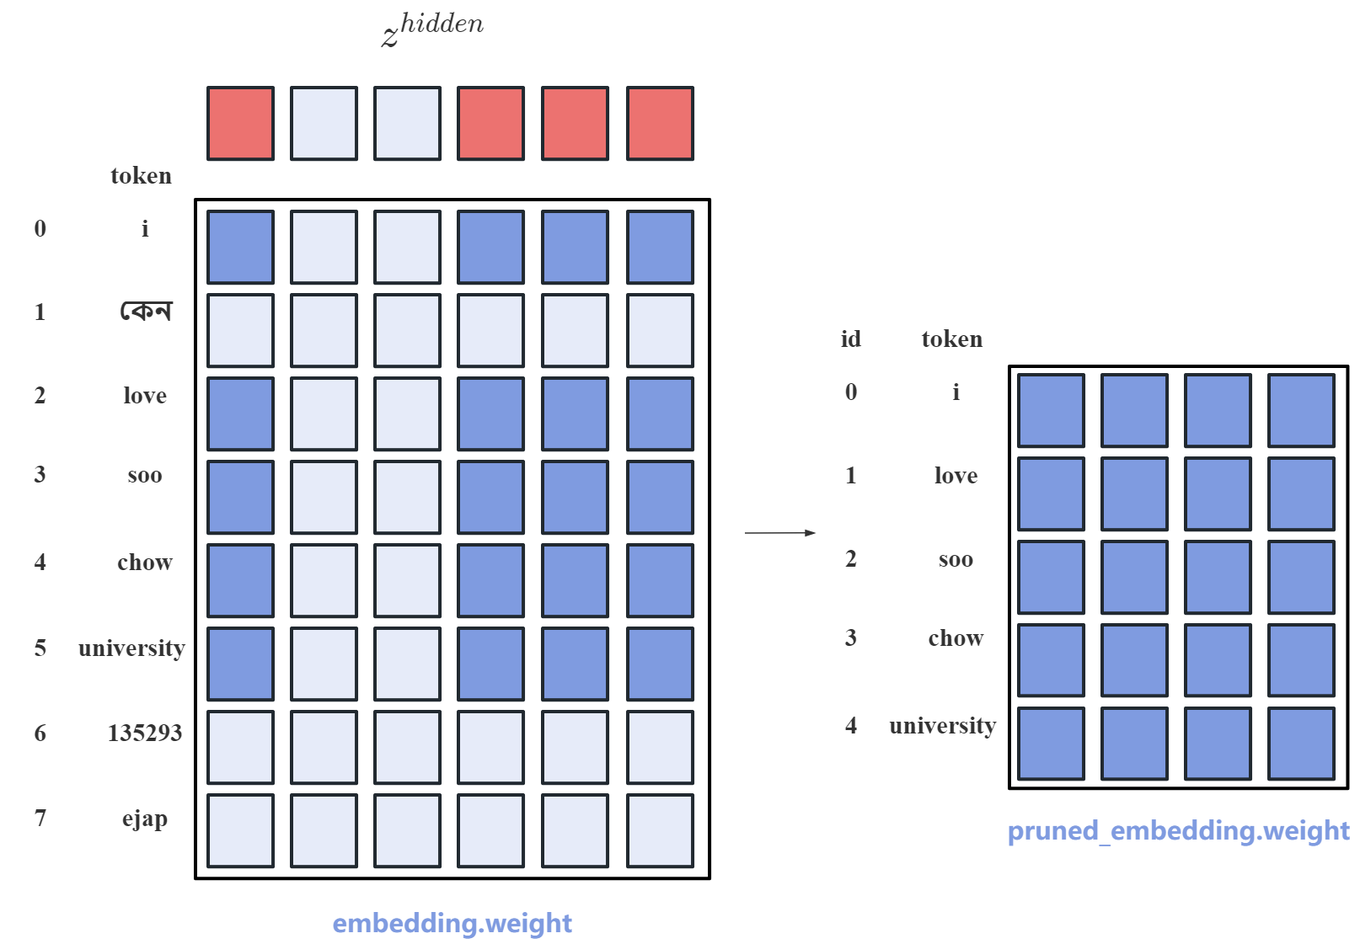
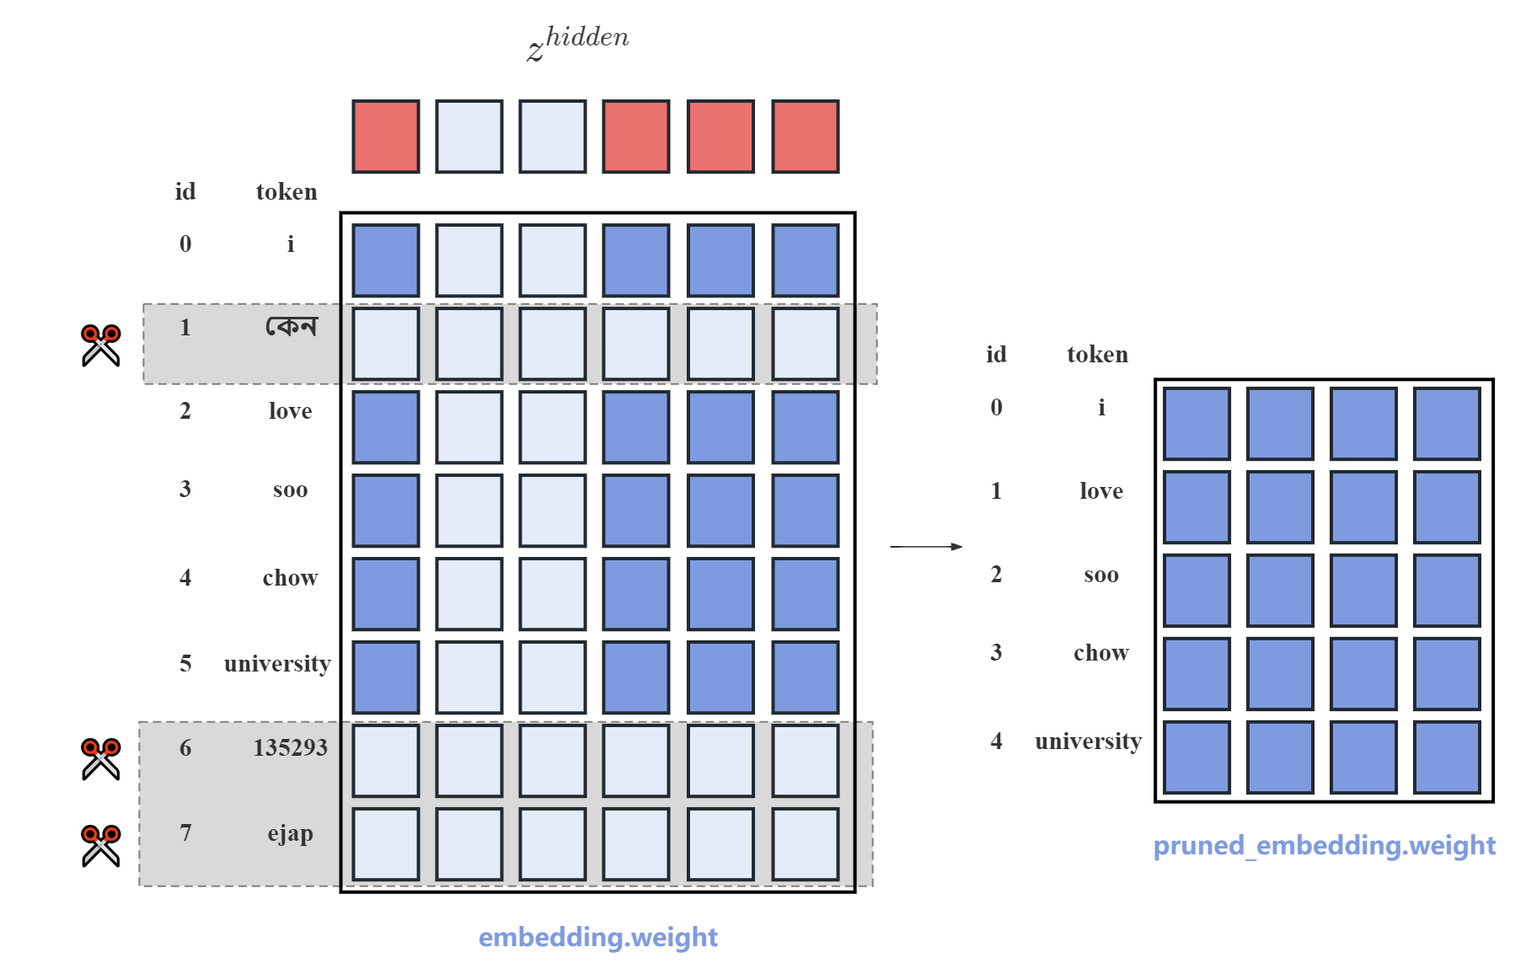
update

diff --git a/README_EN.md b/README_EN.md
@@ -1,79 +1,277 @@
-# Megatron Model Pruning and Fine-tuning (llama models only)
-[[中文版](README.md)] [[English](README_EN.md)]
-## Introduction
-This method supports pruning a Transformer pre-trained model to any desired size while retaining most of its performance. For a transformer model, the parameter size is determined by `layer_num, hidden_size, intermediate_size, num_attention_heads`. With this code, you only need to set new values for `drop_layers, hidden_size_remain, intermediate_size_remain`, and `num_attention_heads_remain` to prune the model to a smaller size.
+<!-- omit in toc -->
+<!-- # ✂Pruning LLMs (Pruning LLMs to Any Config) -->
+<p align="center"><h1 align="center">✂Pruning LLMs (Pruning LLMs to Any Config)</h1></p>
 
-Taking Llama as an example:
-| Model | layer_num | hidden_size | intermediate_size | num_attention_heads |
+<p align="center">
+    <a href="https://github.com/jordddan/Pruning-LLMs/blob/main/LICENSE"><img alt="GitHub license" src="https://img.shields.io/badge/Code%20License-Apache_2.0-brightgreen.svg"></a>
+    <a href="https://huggingface.co/jorjordan"><img alt="Pruned Models" src="https://img.shields.io/badge/%F0%9F%A4%97%20HuggingFace-Pruned%20Models-green"></a>
+    <a href="https://opennlg.cn/"><img src="https://img.shields.io/badge/Organization-OpenNLG%20Group-blueviolet"></a>
+</p>
+
+[[中文版](README.md)] [[English](README_EN.md)]
+
+With the continuous development of large models and the breakthroughs in computing power, model performance continues to improve. However, this improvement comes with the continuous increase in the number of parameters. While large models have strong capabilities, they come with high deployment costs and are almost impossible to fine-tune for specific downstream tasks due to their enormous size. Therefore, many organizations often release multiple models of different sizes for use, such as 3B, 7B, 13B, 70B, and so on. Each model retraining requires 2T or more tokens. Therefore, being able to prune a pre-trained model into different sizes without compromising its capabilities can significantly save costs.
+
+<p align="center">
+<img src="assets/main.png", width="80%">
+</p>
+
+This project provides a complete set of code and tools to perform structured pruning on pre-trained models with Transformer architecture. The pruned models can recover most of the language abilities of the original model with training on a small amount of data (10B-20B tokens) and can be fine-tuned on downstream tasks. The method has the following features:
+- **Customizable Pruning Structure:** For example, you can prune `hidden_size` from 4096 to 3072, prune `num_attention_heads` from 32 to 24, prune the number of layers from 32 to 28, and so on. Users can obtain any specified structure and size of the Transformer model through pruning.
+- **Pruned Models Support Training:** Unstructured pruning generally results in a sparse model that cannot be retrained and can only be used for inference. The method presented here produces pruned models that can be trained again without any usage restrictions.
+
+The pruned models have the following applications:
+- **Directly obtain an efficient, small model for inference:** In our experiments, the model trained on the open-source PILE dataset with only 10B-20B tokens shows considerable language capabilities and performs well in downstream fine-tuning tasks.
+- **Use as an initialization for models to speed up convergence:** Large models may require 2T or more training data. By using this pruning method as an initialization, satisfactory results can be achieved with only 100B-200B high-quality data.
+
+The following are the recovery results on the LLama2 model:
+| Model | layer_num | hidden_size | intermediate_size | num_attention_heads | ml loss |
+| :--- | :---: | :---: | :---: | :---: | :---: |
+| LLaMA2-13B | 40 | 5120| 13824 | 40 | 1.50 (2T tokens)|
+| LLaMA2-7B | 32 | 4096| 11006 | 32 | 1.54 (2T tokens)|
+| Pruned-7B | 32 | 4096| 11006 | 32 | 1.56 (20B tokens) |
+| Pruned-3.4B | 28 | 3072| 8192 | 28 | 1.71 (12B tokens) |
+
+The models with the same configuration were compared for training results between the pruned weights and randomly initialized weights:
+
+<p align="center">
+<img src="assets/loss2.png", width="80%">
+</p>
+
+# Table of Contents
+Here is the table of contents for this project, covering model pruning, vocabulary pruning, and efficient training of LlaMA models using the Megatron framework.
+- [Table of Contents](#table-of-contents)
+- [Installation Guide](#installation-guide)
+- [Model Pruning](#model-pruning)
+  - [Depth Pruning](#depth-pruning)
+  - [Width Pruning](#width-pruning)
+  - [Usage Tutorial](#usage-tutorial)
+- [Vocabulary Pruning](#vocabulary-pruning)
+  - [Usage Method](#usage-method)
+  - [Explanation](#explanation)
+- [Large Model Pruning Experiment](#large-model-pruning-experiment)
+  - [Convergence](#convergence)
+  - [Training Process Performance](#training-process-performance)
+  - [Fine-tuning Performance](#fine-tuning-performance)
+- [Related Work](#related-work)
+- [References](#references)
+
+# Open Source
+
+We have open-sourced the 7B model pruned from the LLaMA2-13B model, the 3B model pruned from the LLaMA2-7B model, and the model fine-tuned on the downstream multi-task named entity recognition.
+- prune-llama-7B: [link](https://huggingface.co/jorjordan/pruned-llama-7B)
+- prune-llama-3B: [link](https://huggingface.co/jorjordan/pruned-llama-3B)
+- pruned-llama3B-ner: TODO
+- openba-llama3B-ner:TODO
+
+# Installation Guide
+
+It is recommended to use Docker for environment installation. Similar to Megatron-LM, it is recommended to use the version of [NGC's PyTorch container](https://ngc.nvidia.com/catalog/containers/nvidia:pytorch) with the DXG node. To successfully run PyTorch, follow these steps:
+
+1. Install Docker and nvidia-docker.
+
+2. Execute the following Docker commands:
+
+```bash
+docker pull nvcr.io/nvidia/pytorch:23.12-py3
+docker run --gpus all --shm-size=128g --net=host -dit --rm --name megatron -v /your_dir:/your_dir -v /root/.ssh:/root/.ssh nvcr.io/nvidia/pytorch:23.12-py3
+```
+
+3. Install SentencePiece and NLTK:
+
+```bash
+pip install SentencePiece
+pip install nltk
+```
+
+# Model Pruning
+This method supports pruning a pre-trained Transformer model into a new pre-trained model of any size while preserving most of its performance. For a Transformer model, the parameter size is determined by `layer_num, hidden_size, intermediate_size, num_attention_heads`. Using this code, you only need to set the new values for `drop_layers, hidden_size_remain, intermediate_size_remain`, and `num_attention_heads_remain` to prune the model into a smaller one.
+
+For example, for LLaMA:
+| Model | layer_num | hidden_size | intermediate_size | num_attention_heads | 
 | :--- | :---: | :---: | :---: | :---: |
 | LLaMA-13B | 40 | 5120| 13824 | 40 |
-| LLaMA-7B | 32 | 4096| 11006 | 32 |
-| LLaMA-3.4B | 28 | 3072| 8192 | 24 |
-| LLaMA-2.7B | 24 | 2560| 6912 | 20 |
+| LLaMA-7B | 32 | 4096| 11006 | 32 | 
+| LLaMA-3.4B | 28 | 3072| 8192 | 24 | 
+| LLaMA-2.7B | 24 | 2560| 6912 | 20 | 
 
-Due to not pruning kv_channel and Llama using SwiGLU-MLP, there is a certain proportional relationship between `hidden_size`, `intermediate_size`, and `num_attention_heads`. It is recommended to choose `hidden_size` first when pruning and then calculate the corresponding `intermediate_size` and `num_attention_heads`.
+Since there is no pruning for kv_channel, and LLaMA uses SwiGLU-MLP, there is a certain proportional relationship between hidden_size, intermediate_size, and num_attention_heads. It is recommended to choose hidden_size first and then calculate the corresponding intermediate_size and num_attention_heads.
 
-### Depth Pruning
-This method is similar to the classic layerdrop method. By using the `drop_layers` parameter, you can specify the layers you want to prune. In our preliminary experiments, pruning from the middle often causes less damage to the model for a fixed number of pruned layers, and the farther apart the pruned layers are, the less damage to the model. For example, for a transformer with 12 layers indexed from 0, if you need to prune 2 layers, pruning layers 4 and 7 may have a better effect.
+## Deep Pruning
+This method is similar to the classical layerdrop method, and you can specify the layer numbers to be pruned using the `drop_layers` parameter. Preliminary experiments have shown that pruning from the middle has less impact on the model, and pruning layers with larger intervals has less impact on the model. For example, for a transformer with 12 layers starting from layer 0, if you need to prune 2 layers, pruning layers 4 and 7 has better results.
 
-### Width Pruning
-Set parameters such as `hidden_size, intermediate_size, num_attention_heads`, etc.
-This method prunes the original model by structured weight pruning, creating a model of any desired size. For example, for an [n, m] matrix, if it is pruned to a size of [n-a, m-b], it will randomly prune a rows and b columns of parameters.
-However, the weight matrices in the Transformer structure have strict dependencies. For example, in the calculation process, for an initial vector x, it will go through multiple layers of the network. For example, $x_1 = x_0AB$ where matrices A and B are multiplied, there are dependencies between rows and columns. For a vector $x_0$ of size `hidden_size`, if the i-th position is pruned, then vectors A and B need to prune the i-th row and column, respectively. This ensures that the calculated result of the pruned matrix remains consistent at positions other than i. This code generates random pruning positions and performs structured pruning according to the calculation method of the transformer.
+## Width Pruning
+This method prunes the original model through structured weight pruning, creating a model of any size. For example, for an [n, m] matrix, if it is pruned to a [n-a, m-b] matrix, it randomly prunes a rows and b columns of parameters.
+However, in reality, the weight matrices in the Transformer structure have strict dependencies. For example, in the calculation process, for the initial vector x, it goes through multiple layers of the network. For example, $x_1 = x_0AB$ where matrices A and B have dependencies on rows and columns. For a vector $x_0$ of size `hidden_size`, if the i-th position is pruned, both vector A and vector B need to prune the i-th row and column, respectively. This ensures that the calculation results of the pruned matrix remain consistent in all positions except for position i. This code generates a random pruning position and performs structured pruning according to the calculation method of the transformer.
+The specific pruning process is shown in the figure below:
+<p align="center">
+<img src="assets/prune.png" width="80%">
+</p>
 
-## Usage
-### Step 1
-Convert llama's Hugging Face model weights to Megatron model weights
+This method will automatically generate a random mask vector $z$ matching the configuration size. For example, if you want to prune `hidden_size` from 2048 to 1024, the shape of $z^{hidden}$ is [2048, 1], and $sum(z^{hidden})=1024$. All matrices involved in the calculation with `hidden_size` need to be pruned according to $z^{hidden}$, making the calculation almost unchanged for elements with $z^{hidden}$ value of 1.
+
+Specifically, for the pruning of each layer's SwiGLUMLP in the HuggingFace LLaMA model:
+```python
+def prune_linear_by_index(module: nn.Linear, row_index=None, column_index=None):
+    if row_index is not None:
+        module.weight.data = torch.index_select(module.weight.data, 0, row_index)
+    if column_index is not None:
+        module.weight.data = torch.index_select(module.weight.data, -1, column_index)
+
+class LlamaMLP(nn.Module):
+    def __init__(self, config):
+        super().__init__()
+        self.config = config
+        self.hidden_size = config.hidden_size
+        self.intermediate_size = config.intermediate_size
+        self.gate_proj = nn.Linear(self.hidden_size, self.intermediate_size, bias=False)
+        self.up_proj = nn.Linear(self.hidden_size, self.intermediate_size, bias=False)
+        self.down_proj = nn.Linear(self.intermediate_size, self.hidden_size, bias=False)
+        self.act_fn = ACT2FN[config.hidden_act]
+
+    def prune(self, zs, layer_num):
+        hidden_index = zs["hidden_index"]
+        intermediate_index = zs["intermediate_indexes"][layer_num - 1]
+
+        # w1 cat w3 == dense_h_to_4h, w2 = dense_4h_to_h
+
+        # expand intermediate_index
+        prune_linear_by_index(self.gate_proj, intermediate_index, hidden_index)
+        prune_linear_by_index(self.up_proj, intermediate_index, hidden_index)
+        prune_linear_by_index(self.down_proj)
 ```
+
+## Usage Tutorial
+<!-- omit in toc -->
+### Megatron (Recommended)
+This project mainly targets larger models, and many 7B, 13B, and above models use the Megatron architecture for training. For larger models, a single GPU may not even accommodate all parameters. Therefore, pruning and training code for llama-structured models based on the Megatron framework has been implemented. The code supports pruning and training from 300M to 130B models. It also supports tensor parallelism for distributed parameter pruning.
+
+<!-- omit in toc -->
+#### Step 1
+Convert the llama's huggingface model weights to megatron model weights:
+```bash
 bash tools/checkpoint_conversion/hf_to_megatron.sh
 ```
-You can set the `tensor_parallel_size` arbitrarily, and this method supports weight pruning under tensor parallelism.
+You can set `tensor_parallel_size` arbitrarily. This method supports weight pruning under tensor parallelism.
 
-### Step 2
-Megatron model pruning, refer to the script `scripts/prune_llama.sh`
-```
+<!-- omit in toc -->
+#### Step 2
+Prune the megatron model, refer to the script `scripts/prune_llama.sh`:
+```bash
 bash scripts/prune_llama.sh
 ```
-- `--load`: Path to the Megatron model to be pruned.
-- `GPT_ARGS`: Keep all parameters consistent with the original model.
+- `--load`: Path to the megatron model to be pruned.
+- `GPT_ARGS`: All parameters remain consistent with the original model parameters.
 - `PRUNE_ARGS`
-    - `--hidden_size_remain`: Pruned `hidden_size`.
-    - `--num_attention_heads_remain`: Pruned `attention_heads`.
-    - `--ffn_hidden_size_remain`: Pruned `ffn_hidden_size`.
-    - `--drop_layers`: Indices of layers to be pruned, starting from 0.
-    - `--prune_type`: Default is "balance". Since pruning for larger models is done under tensor parallelism, the rows or columns to be pruned may not be on the same GPU. "balance" pruning ensures that an equal number of rows or columns are pruned on each GPU, making each sub-model exactly the same size. If not using "balance", each sub-model may have different sizes, and the transfer.sh script is needed to convert to a tp1 model.
+    - `--hidden_size_remain`: Pruned hidden_size.
+    - `--num_attention_heads_remain`: Pruned
 
-### Step 3
-The pruned model needs a small amount of fine-tuning to recover most of its capabilities.
-The script for continuing training the model is as follows:
-```
+ attention_heads.
+    - `--ffn_hidden_size_remain`: Pruned ffn_hidden_size.
+    - `--drop_layers`: Layer numbers to be pruned, starting from 0.
+    - `--prune_type`: Default is "balance". Since pruning for larger models is done under tensor parallelism, rows or columns to be pruned may not be on the same GPU. "Balance" pruning ensures that an equal number of rows or columns are pruned on each GPU, resulting in identical sizes for each sub-model after pruning. If "balance" is not used, each sub-model may have different sizes, and you need to use the `transfer.sh` script to convert it to a tp1 model.
+
+<!-- omit in toc -->
+#### Step 3
+The pruned model needs a small amount of fine-tuning to restore most of its capabilities. The script for continuing training is as follows:
+```bash
 bash scripts/check_model.sh
 ```
+If the model has been pruned small enough, the tensor-parallel model can also be trained on a single GPU. You can use the following script to change the tensor parallel size:
+```bash
+bash scripts/transfer.sh
+```
 
-## Large Model Pruning Experiment
-We conducted experiments on the popular llama model, pruning llama2-13B to 7B and llama2-7B to 3.5B.
+<!-- omit in toc -->
+### HuggingFace
+For user convenience and better understanding of the pruning process, the pruning code for llama based on HuggingFace's `modeling_llama.py` has been directly implemented, and reference code is provided. Users only need to provide the path of the llama model and set the expected size of the pruned model in the config file:
+```bash
+cd prune_hf
+python prune_llama.py \
+  --model_name_or_path {model path} \
+  --prune_config_path {size of the new model} \
+  --output_path {path to save the pruned model}
+```
 
-We fine-tuned the pruned models on the open-source Pile dataset.
-Below are the specific model parameters and ml loss after fine-tuning:
+# Vocabulary Pruning
+The vocabulary size of large models is very large, and due to the large hidden_size (usually 2048 or 4096), the size of the entire embedding weight is `vocab_size * hidden_size`. For example, the vocabulary size of the Multi-Lingual T5 model is about 260,000. The total parameter size is about 1.1B. However, if it is only used for Chinese-English tasks, a large number of vocabulary will not be used, resulting in significant space wastage. This project provides a set of methods to prune the SentencePiece tokenizer and simultaneously prune the model's embedding weights. By selecting tokens that the model is unlikely to encounter during subsequent usage through frequency sorting, it removes them and prunes the corresponding embedding weights. The method is illustrated in the figure below:
+<p align="center">
+<img src="assets/prune_emb.png" width="60%">
+</p>
+
+We tested the llama2-7B model on the MMLU dataset, selecting the top 15,000 tokens with the highest frequency on the MMLU dataset, and pruning the original llama vocabulary from 32,000 to 15,000. The performance of the pruned model changed from 42.33 to 42.21.
+
+## Usage
+First, determine the dataset the model will be used with in the future. For example, if the model will only be used for Chinese, you can use a Chinese pre-training dataset. Use `get_vocab_freq.py` to perform frequency statistics and set the new vocabulary size to select the retained vocabulary:
+```bash
+cd emb_pruner/llama_emb_pruner
+bash get_vocab_freq.sh
+```
+The above script will generate `remain_vocab_ids.pt`, storing a list of original token IDs to be retained. Then, prune the vocabulary and corresponding embedding and lm_head of the model based on the retained IDs:
+```bash
+bash prune_spm_and_emb.py
+```
+
+## Note
+- The above code is for pruning models using the SentencePiece tokenizer. For models using the tiktoken tokenizer, such as the Qwen series, we have also developed code. However, it seems that due to the inability of tiktoken to add an unknown token, pruning with random generation may cause an error in the core_bpe tokenizer, and it cannot be used correctly for now.
+- In principle, it is not recommended to arbitrarily change the original BPE tokenizer. This method is just a simple attempt. The problems that may be encountered when changing the tokenizer and embedding of the model in subsequent training have not been fully explored. However, for the 15B T5 model, pruning the vocabulary from 260,000 to 50,000 and performing deep pruning, training with 100B tokens, the training loss curve is normal.
+
+# Large Model Pruning Experiment
+We conducted experiments on the most popular llama models, pruning llama2-13B to 7B, and llama2-7B to 3.5B.
+
+We performed fine-tuning on the pruned models on the open-source Pile dataset.
+The specific model parameters and fine-tuning loss after recovery are as follows:
 
 | Model | layer_num | hidden_size | intermediate_size | num_attention_heads | ml loss |
 | :--- | :---: | :---: | :---: | :---: | :---: |
 | LLaMA2-13B | 40 | 5120| 13824 | 40 | 1.50 |
 | LLaMA2-7B | 32 | 4096| 11006 | 32 | 1.54 |
 | Pruned-7B | 32 | 4096| 11006 | 32 | 1.56 (20B tokens) |
-| Pruned-3.4B | 28 | 3072| 8192 | 28 | 1.71 (12B tokens) |
+| Pruned-3B | 28 | 3072| 8192 | 28 | 1.71 (12B tokens) | 
 
-### Fine-tuning loss is as follows
-#### Comparison of loss after pruning models of different sizes
-Training curves
+## Convergence
+<!-- omit in toc -->
+### Comparison of loss after pruning models of different sizes
 
 ![avatar](assets/loss.png)
 
-Training table
 
 | Model | 4B| 8B | 12B |16B | 20B |
 | :--- | :---: | :---: | :---: | :---: | :---: |
 | Pruned-7B | 1.700 | 1.642| 1.616 | 1.587 | 1.553 |
-| Pruned-3.4B | 1.839 | 1.746| 1.713 | - | - |
+| Pruned-3B | 1.839 | 1.746| 1.713 | - | - | 
 
-From the training loss, it can be seen that the model has not yet fully converged, and there is still significant room for improvement with more training data.
+From the training loss, it can be seen that the model has not completely converged. If more data is trained, there is still a large room for improvement.
+
+<!-- omit in toc -->
+## Downstream Task Performance
+
+To ensure fairness in comparison， all evaluation results were obtained using the [lm-evaluation-harness](https://github.com/EleutherAI/lm-evaluation-harness).
+
+| Models | #tokens for training | SciQ | PIQA | WinoGande |ARC-E | ARC-C(25) | HellaSwag(10) | LogiQA | BoolQ(32)  | MMLU (5) | AVG |
+| :--- | :---: | :---: | :---: | :---: | :---: | :---: | :---: | :---: | :---:   | :---: | :---: | 
+| LLaMA2-7B | 2T | 93.7 | 78.1 | 69.3 | 76.4 | 53.0 | 78.6 | 30.7 | 82.1   | 46.6 | 67.61 |
+| OPT2.7B | 300B | 85.8 | 73.7 | 60.8 | 60.8 | 34.0 | 61.5 | 26.0 | 63.4   | 25.9 | 54.6 |
+| Pythia2.8B | 300B | 88.3 | 74.0 | 59.7 | 64.4 | 36.4 | 60.8 | 28.0 | 66.0   | 26.9 | 58.5 |
+| INCITE-Base-3B | 800B | 90.7 | 74.6 | 63.5 | 67.7 | 40.2 | 64.8 | 27.7 | 65.9   | 27.0 | 58.0 |
+| Open-LLaMA-3B-v1 | 1T | 91.3 | 73.7 | 61.5 | 67.6 | 39.6 | 62.6 | 28.4 | 70.0   | 27.0 | 57.9 |
+| Open-LLaMA-3B-v2 | 1T | 91.8 | 76.2 | 63.5 | 66.5 | 39.0 | 67.6 | 28.1 | 69.6   | 26.9 | 58.8 |
+| Qwen-1.8B | 2T | 92.2 | 73.5 | 59.1 | 63.6 | 38.4 | 60.8 | 31.6 | 66.7  | 44.8 | 59.0 |
+| Pruned-7B | 20B | 91.8 | 76.2 | 65.2 | 68.6 | 45.7 | 70.4 | 27.4 | 74.1  | 31.6 | 61.3 |
+| Pruned-3B | 12B | 88.8 | 72.2 | 60.7 | 61.1 | 36.6 | 60.8 | 29.2 | 67.1   | 27.6 | 56.0 |
+
+## Fine-Tuning Performance
+TODO
+
+# Related Work
+- [Cofi-Pruner](https://github.com/princeton-nlp/CoFiPruning): Prune BERT models using a training-based pruning mask.
+
+- [Sheard-LLaMA](https://github.com/princeton-nlp/LLM-Shearing): Similar to Cofi-Pruner, prune llama models using a training-based pruning mask, and propose a new data recovery strategy. The difference between this project and these two projects is that the mask in this project is generated randomly and does not require any training. Moreover, even with randomly generated masks and coarse-grained data available, large language models can recover successfully. Additionally, this project provides pruning for Megatron framework-based tensor-parallel models, which means that if a model cannot fit on a single GPU, it can still be pruned and trained.
+
+- [Megatron-LM](https://github.com/NVIDIA/Megatron-LM): LLaMA is trained based on the Megatron framework.
+
+- [OpenBA](https://github.com/OpenNLG/OpenBA): Open-sourced 15B-sized Encoder-Decoder Chinese-English model.
+
+- [OpenBA-v2](https://github.com/OpenNLG/OpenBA): This project is an early experiment for OpenBA-v2. OpenBA-v2 uses this project's model pruning framework to prune a 15B OpenBA model to 3.5B. With multi-stage pruning recovery, nearly 80% of the model parameters are pruned. Training with only 100B of recovery data outperforms most models trained on open-source data. We will soon open-source the model training code and model parameters.
+
+- [Megatron-CookBook](https://github.com/dwzq-com-cn/LLM-Megatron-Cookbook): An efficient repository based on Megatron for training large-scale models, including model pre-training, fine-tuning, compression, length extension, and large model multi-teacher distillation.

diff --git a/README.md b/README.md
@@ -245,7 +245,7 @@ bash prune_spm_and_emb.py
 <!-- omit in toc -->
 ## 下游任务表现
 
-所有的测评结果均使用lm-evaluation-harness代码仓库获得。
+为了保证比较的公平性，所有的测评结果均使用[lm-evaluation-harness](https://github.com/EleutherAI/lm-evaluation-harness)代码仓库获得。
 
 | Models | #tokens for training | SciQ | PIQA | WinoGande |ARC-E | ARC-C(25) | HellaSwag(10) | LogiQA | BoolQ(32)  | MMLU (5) | AVG |
 | :--- | :---: | :---: | :---: | :---: | :---: | :---: | :---: | :---: | :---:   | :---: | :---: | 
@@ -270,4 +270,4 @@ TODO
 - [Megatron-LM](https://github.com/NVIDIA/Megatron-LM): LlaMA的训练基于Megatron框架开发。
 - [OpenBA](https://github.com/OpenNLG/OpenBA): 开源的15B大小的Encoder-Decoder中英文模型。
 - [OpenBA-v2](https://github.com/OpenNLG/OpenBA): 本项目为OpenBA-v2的前期实验。OpenBA-v2即利用该项目的模型裁剪框架将15B的OpenBA模型裁剪至3.5B，利用多阶段的裁剪恢复，裁剪掉近80%的模型参数。仅使用100B的恢复数据，超过大部分主流在开源数据上训练的模型。我们即将开源模型训练代码以及模型参数。
-
+- [Megatron-CookBook](https://github.com/dwzq-com-cn/LLM-Megatron-Cookbook): 基于Megatron的高效超大模型训练仓库，包含模型预训练，微调，压缩，长度扩展，大模型多教师蒸馏。
